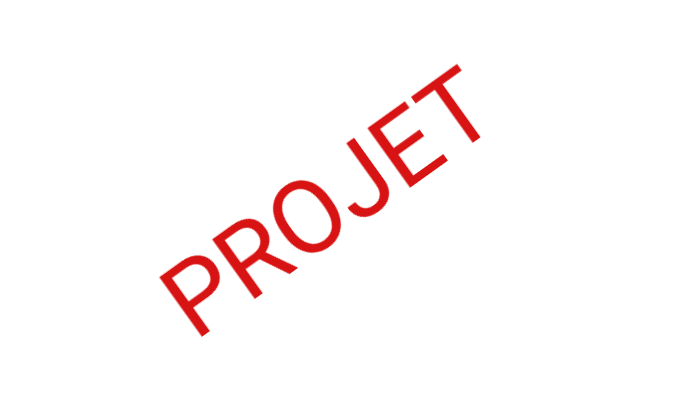
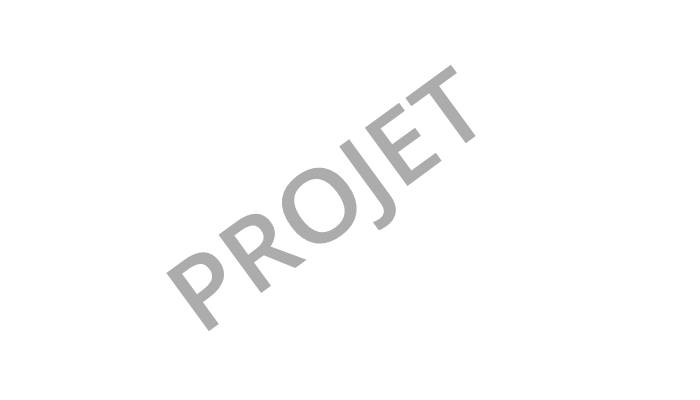
Change watermark

Changed region(s): [[0.21, 0.15, 0.69, 0.84]]

diff --git a/src/plonemeeting/portal/core/browser/static/core-compiled.css b/src/plonemeeting/portal/core/browser/static/core-compiled.css
@@ -222,14 +222,7 @@ html body .faceted-criteria-hide-show:hover a, html body .faceted-criteria-reset
 .item-title{
     font-size: 25px;
 }
-.item-main .item-title::after {
-    content: url(++plone++plonemeeting.portal.core/assets/right-arrow.svg);
-    width: 30px;
-    float: right;
-    margin-left: 15px;
-    display: block;
-    margin-top: 2px;
-}
+
 .meeting-state{
     position: absolute;
     right: 30px;
